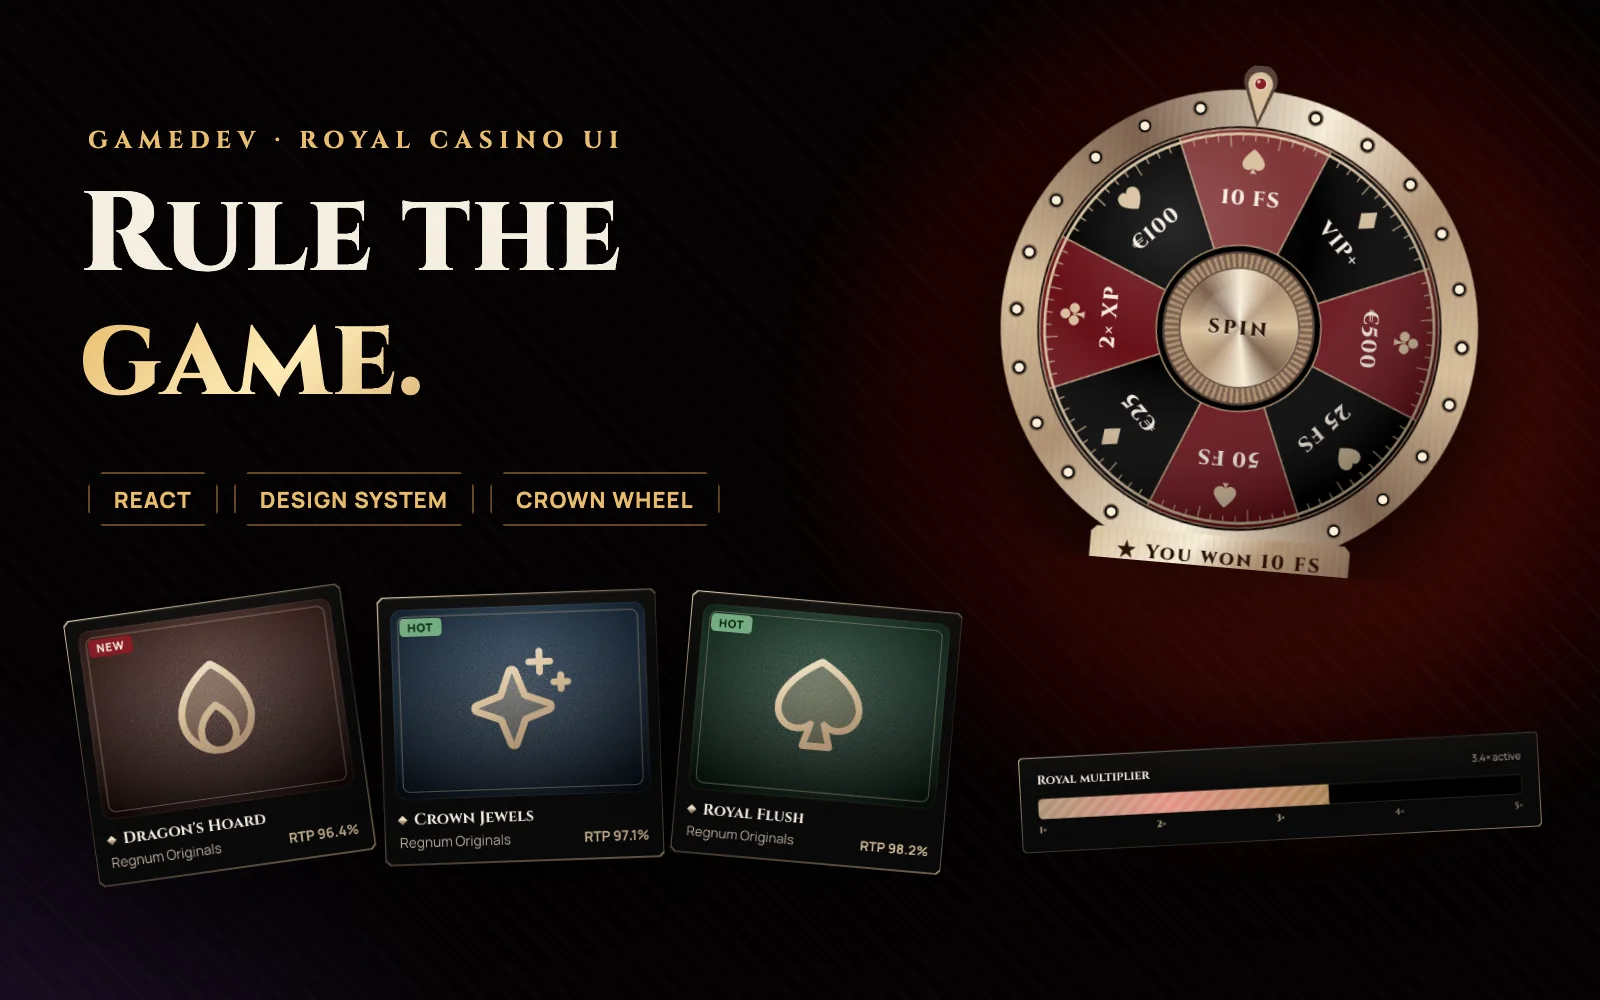
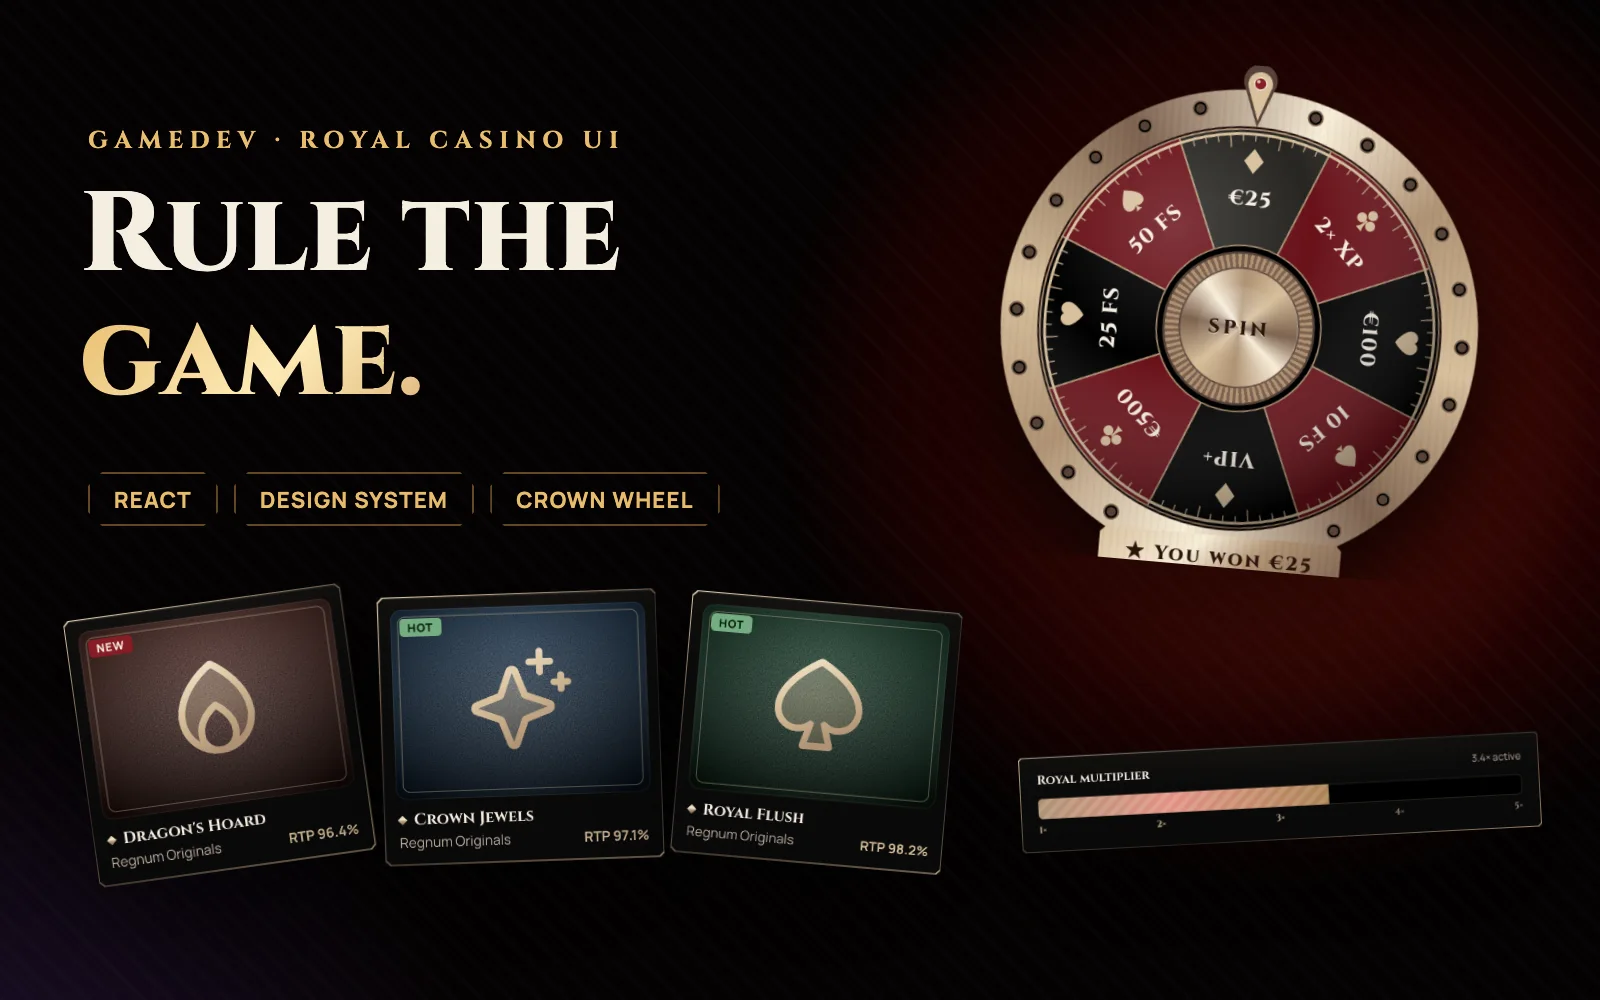
feat(regnum): ProfileCard composition — crest on top, facts row, tabs pinned to the bottom
Was: everything centred in a stretched card, big empty gaps. Now: crest + portrait at the top with an even inset,
name and rank, a Flourish, a 3-column facts row (member since · games played · best win) with hairline dividers,
tabs aligned to the bottom edge (level with the VIP card). New optional 'facts' prop; lab story updated.

Claude-Session: https://claude.ai/code/session_01LctZPao52rXfXx1JX6znjV

Changed region(s): [[0.625, 0.124, 0.9062, 0.589]]

diff --git a/public/demos/regnum/ds/components.css b/public/demos/regnum/ds/components.css
@@ -313,11 +313,19 @@ button{font:inherit; color:inherit; background:none; border:0; cursor:pointer}
   .hero .guilloche{right:50%; top:auto; bottom:-10%; transform:translateX(50%); width:520px}
 }
 
-/* ── ProfileCard (паттерн) ── */
-.profile .in{display:flex; flex-direction:column; align-items:center; justify-content:center; padding:26px 22px 22px; text-align:center}
-.profile h3{margin:10px 0 2px; font:700 20px/1.2 var(--f-head)}
+/* ── ProfileCard (паттерн): герб сверху → имя → факты → табы прижаты к низу ── */
+.profile .in{display:flex; flex-direction:column; align-items:center; padding:28px 22px 22px; text-align:center}
+.profile .crest{flex:none; margin-top:4px}
+.profile h3{margin:14px 0 4px; font:700 21px/1.2 var(--f-head); letter-spacing:.02em}
 .profile .rank{font-size:13px; color:var(--metal)}
-.profile .ptabs{margin-top:20px}
+.profile .flourish{margin:16px 0 12px}
+.facts{display:grid; grid-template-columns:repeat(3,1fr); width:100%; margin:0}
+.facts > div{padding:2px 6px}
+.facts > div + div{box-shadow:inset 1px 0 0 color-mix(in oklch, var(--metal-dim) 25%, transparent)}
+.facts dt{font:800 17px/1.1 var(--f-head)}
+.facts dd{margin:5px 0 0; font-size:11px; color:var(--faint); letter-spacing:.03em}
+.profile .ptabs{margin-top:auto}
+.profile .in > .facts{margin-bottom:22px}
 
 /* ── Guilloche ── */
 .guilloche{fill:none; stroke:var(--metal); stroke-width:.45; opacity:calc(.22 * var(--texture)); pointer-events:none}

diff --git a/public/demos/regnum/lab/index.html b/public/demos/regnum/lab/index.html
@@ -364,8 +364,8 @@ function App() {
             <div class="w-full"><${HeroBanner} eyebrow="Welcome to the court" title=${html`100% up to <b class="metal-text">€500</b><br/>+ 200 free spins`}
               text="Claim the throne bonus on your first deposit — and spin the Crown Wheel for one more royal gift." pay=${PAY} aside=${html`<${CrownWheel}/>`}/></div>
           <//>
-          <${Story} id="profile" title="ProfileCard" code=${'<${ProfileCard} name="Lady Morgane" rank="♛ Duchess · VIP level 7" tabs={[[\'dash\',\'Dashboard\'], …]}/>'}>
-            <div style=${{ width: '330px', maxWidth: '100%' }}><${ProfileCard} name="Lady Morgane" rank="♛ Duchess · VIP level 7" tabs=${[['dash', 'Dashboard'], ['shield', 'Safety'], ['wallet', 'Wallet']]}/></div>
+          <${Story} id="profile" title="ProfileCard" code=${'<${ProfileCard} name="Lady Morgane" rank="♛ Duchess · VIP level 7"\n  facts={[[\'2021\', \'Member since\'], [\'1,284\', \'Games played\'], [\'€9.7k\', \'Best win\']]}\n  tabs={[[\'dash\',\'Dashboard\'], …]}/>'}>
+            <div style=${{ width: '330px', maxWidth: '100%' }}><${ProfileCard} name="Lady Morgane" rank="♛ Duchess · VIP level 7" facts=${[['2021', 'Member since'], ['1,284', 'Games played'], ['€9.7k', 'Best win']]} tabs=${[['dash', 'Dashboard'], ['shield', 'Safety'], ['wallet', 'Wallet']]}/></div>
           <//>
         </section>
 

diff --git a/public/demos/regnum/ds/components.js b/public/demos/regnum/ds/components.js
@@ -261,11 +261,12 @@ export const HeroBanner = ({ eyebrow, title, text, pay, cta = 'Join now', aside 
   <div class="hero-copy"><div class="eyebrow">${eyebrow}</div><h1>${title}</h1><p>${text}</p>${pay && html`<${PayRow} items=${pay}/>`}<${Gem} label=${cta} magnetic/></div>
   ${aside && html`<div class="hero-aside">${aside}</div>`}<//>`;
 // Карточка профиля: герб с портретом, статус, имя, ранг, табы
-export function ProfileCard({ name, rank, avatar = 'morgane', status = 'Online', tabs }) {
+export function ProfileCard({ name, rank, avatar = 'morgane', status = 'Online', facts, tabs }) {
   const [tab, setTab] = useState(tabs[0][0]);
   return html`<${Orn} className="profile" lit deco>
     <${Crest}><${Avatar} k=${avatar}/><${Presence} label=${status}/><//>
     <h3>${name}</h3><div class="rank">${rank}</div>
+    ${facts && html`<${Flourish} w=${90}/><dl class="facts">${facts.map(([v, l]) => html`<div key=${l}><dt class="metal-text">${v}</dt><dd>${l}</dd></div>`)}</dl>`}
     <${Tabs} items=${tabs} value=${tab} onChange=${setTab}/><//>`;
 }
 

diff --git a/public/demos/regnum/index.html b/public/demos/regnum/index.html
@@ -105,7 +105,7 @@ const PAY = [['VISA', 'oklch(45% 0.15 260)'], ['MC', 'oklch(62% 0.19 40)'], ['ET
 const Hero = () => html`<${HeroBanner} eyebrow="Welcome to the court" title=${html`100% up to <b class="metal-text">€500</b><br/>+ 200 free spins`}
   text="Claim the throne bonus on your first deposit — and spin the Crown Wheel for one more royal gift." pay=${PAY} aside=${html`<${CrownWheel}/>`}/>`;
 
-const Profile = () => html`<${ProfileCard} name="Lady Morgane" rank="♛ Duchess · VIP level 7" tabs=${[['dash', 'Dashboard'], ['shield', 'Safety'], ['wallet', 'Wallet']]}/>`;
+const Profile = () => html`<${ProfileCard} name="Lady Morgane" rank="♛ Duchess · VIP level 7" facts=${[['2021', 'Member since'], ['1,284', 'Games played'], ['€9.7k', 'Best win']]} tabs=${[['dash', 'Dashboard'], ['shield', 'Safety'], ['wallet', 'Wallet']]}/>`;
 
 const Stats = () => html`<div class="stats">
   <${Stat} k="Balance" to=${12480} prefix="€" delta="▲ €1,240 today"/>
